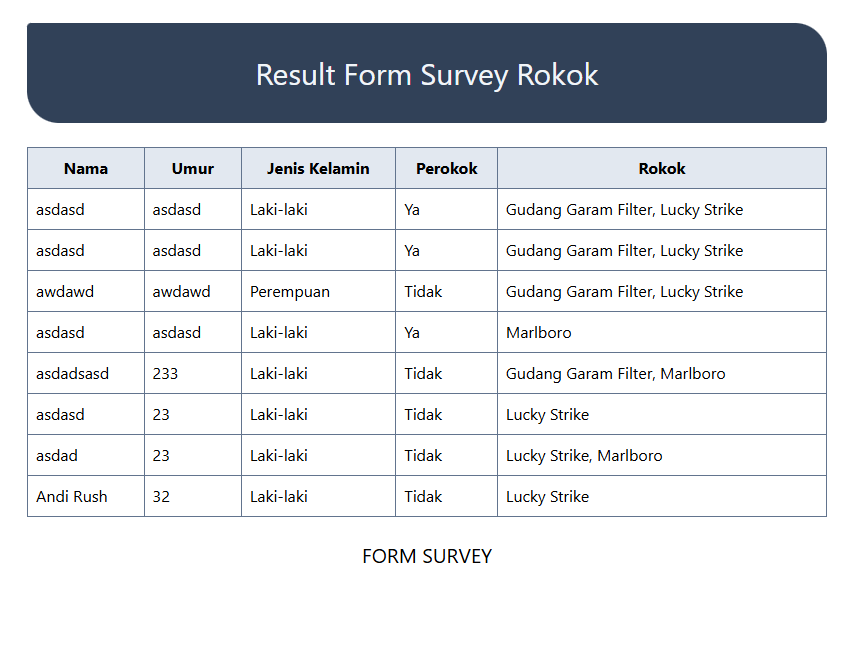
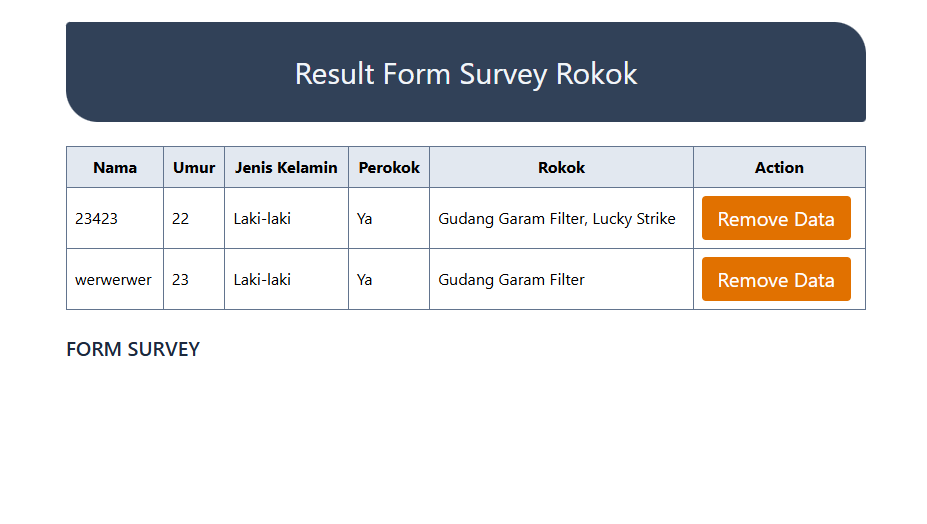
init: minitask react redux

Changed region(s): [[0.0303, 0.0305, 0.9697, 0.7939], [0.4242, 0.8244, 0.5758, 0.8855]]

diff --git a/src/assets/pages/ResultFormPage.jsx b/src/assets/pages/ResultFormPage.jsx
@@ -1,70 +1,76 @@
-import React , { useState, useEffect } from 'react'
-import { Link } from 'react-router-dom'
+import { useSelector } from "react-redux";
+import { Link } from "react-router-dom";
+import { useDispatch } from "react-redux";
+import { removeSurvey } from "../../redux/reducers/survey";
 
 function ResultFormPage() {
-  const [data, setData] = useState([]);
-  
-    // useEffect(() => {
-    //   const data = localStorage.getItem('dataSurvey')
-    //   setData(JSON.parse(data));
+  const dispatch = useDispatch();
+  const survey = useSelector((state) => state.survey.data);
 
-    // }, []);
-  
-  useEffect(() => {
-    const loadSurveyData = () => {
-      try {
-        const savedData = localStorage.getItem('dataSurvey');
-        if (savedData) {
-          return JSON.parse(savedData);
-        }
-        return null;
-      } catch (error) {
-        console.error("Error loading survey data:", error);
-        return null;
-      }
-    };
+  const handleRemove = (id) => {
+    dispatch(removeSurvey(id));
+    // console.log(id);
+    // console.log(survey);
+  };
 
-    const surveyData = loadSurveyData();
-    if (surveyData) {
-      setData(surveyData);
-    } else {
-      console.warn("No survey data found in localStorage");
-      // Redirect ke form jika data tidak ada
-      // window.location.href = '/survey-form';
-    }
-  }, []);
-return (
-    <div className='w-screen h-screen p-0 m-0 box-border overflow-hidden'>
-      <div className='flex flex-col w-full h-full justify-start items-center mx-auto p-8 gap-6 bg-slate-00'>
-      <div className='bg-slate-700 w-200 text-center p-8 rounded rounded-bl-4xl rounded-tr-4xl text-slate-100  text-3xl gap-2'>Result Form Survey Rokok</div>
-      <table className='w-200 border border-slate-500'>
-      <thead>
-        <tr>
-          <th className='p-2 border border-slate-500 bg-slate-200'>Nama</th>
-          <th className='p-2 border border-slate-500 bg-slate-200'>Umur</th>
-          <th className='p-2 border border-slate-500 bg-slate-200'>Jenis Kelamin</th>
-          <th className='p-2 border border-slate-500 bg-slate-200'>Perokok</th>
-          <th className='p-2 border border-slate-500 bg-slate-200'>Rokok</th>
-        </tr>
-      </thead>
-      <tbody>
-        {data.map((item, index) => 
-        <tr key={index}>
-          <td className='p-2 border border-slate-500'>{item.name}</td>
-          <td className='p-2 border border-slate-500'>{item.age}</td>
-          <td className='p-2 border border-slate-500'>{item.gender}</td>
-          <td className='p-2 border border-slate-500'>{item.smoker}</td>
-          <td className='p-2 border border-slate-500'>{Array.isArray(item.cigarette) && item.cigarette?.join(", ")}</td>
-        </tr>
-        )}
-      </tbody>
-    </table>
-      <Link to="/" className="text-slate-800font-medium text-xl uppercase">
-        Form Survey
-      </Link>
+  return (
+    <div className="w-screen h-screen p-0 m-0 box-border overflow-hidden">
+      <div className="flex flex-col w-full h-full justify-start items-center mx-auto p-8 gap-6 bg-slate-00">
+        <div className="bg-slate-700 w-200 text-center p-8 rounded rounded-bl-4xl rounded-tr-4xl text-slate-100  text-3xl gap-2">
+          Result Form Survey Rokok
+        </div>
+        <table className="w-200 border border-slate-500">
+          <thead>
+            <tr>
+              <th className="p-2 border border-slate-500 bg-slate-200">Nama</th>
+              <th className="p-2 border border-slate-500 bg-slate-200">Umur</th>
+              <th className="p-2 border border-slate-500 bg-slate-200">
+                Jenis Kelamin
+              </th>
+              <th className="p-2 border border-slate-500 bg-slate-200">
+                Perokok
+              </th>
+              <th className="p-2 border border-slate-500 bg-slate-200">
+                Rokok
+              </th>
+              <th className="p-2 border border-slate-500 bg-slate-200">
+                Action
+              </th>
+            </tr>
+          </thead>
+          <tbody>
+            {survey.map((item) => (
+              <tr key={item.id}>
+                <td className="p-2 border border-slate-500">{item.name}</td>
+                <td className="p-2 border border-slate-500">{item.age}</td>
+                <td className="p-2 border border-slate-500">{item.gender}</td>
+                <td className="p-2 border border-slate-500">{item.smoker}</td>
+                <td className="p-2 border border-slate-500">
+                  {Array.isArray(item.cigars) && item.cigars?.join(", ")}
+                </td>
+                <td className="p-2 border border-slate-500">
+                  <button
+                    type="button"
+                    onClick={() => {
+                      handleRemove(item.id);
+                    }}
+                    className="bg-amber-600 py-2 px-4 rounded text-xl text-white "
+                  >
+                    Remove Data
+                  </button>
+                </td>
+              </tr>
+            ))}
+          </tbody>
+        </table>
+        <div className="flex justify-between w-200 items-center">
+          <Link to="/" className="text-slate-800 font-medium text-xl uppercase">
+            Form Survey
+          </Link>
+        </div>
       </div>
-      </div>
-  )
+    </div>
+  );
 }
 
-export default ResultFormPage
+export default ResultFormPage;

diff --git a/src/assets/pages/FormSurveyPage.jsx b/src/assets/pages/FormSurveyPage.jsx
@@ -1,4 +1,3 @@
-import React, { useEffect } from "react";
 import { Link } from "react-router-dom";
 import Input from "./../components/Input";
 import Option from "../components/Option";
@@ -6,6 +5,8 @@ import { useForm } from "react-hook-form";
 import { yupResolver } from "@hookform/resolvers/yup";
 import * as yup from "yup";
 import Card from "../components/Card";
+import { useDispatch } from "react-redux";
+import { addSurvey } from "../../redux/reducers/survey";
 
 const validation = yup.object({
   name: yup
@@ -25,10 +26,12 @@ const validation = yup.object({
     .mixed()
     .oneOf(["Ya", "Tidak"])
     .required("Harus dipilih salah satunya!"),
-  cigarette: yup.array().notRequired(),
+  cigars: yup.array().notRequired(),
 });
 
 function FormSurveyPage() {
+  const dispatch = useDispatch();
+
   const {
     register,
     handleSubmit,
@@ -37,33 +40,25 @@ function FormSurveyPage() {
   } = useForm({
     resolver: yupResolver(validation),
   });
-  const [data, setData] = React.useState([]);
+  // const [data, setData] = React.useState([]);
 
-  useEffect(() => {
-    const savedData = localStorage.getItem("dataSurvey");
-    if (savedData) {
-      setData(JSON.parse(savedData));
-    }
-  }, []);
+  // useEffect(() => {
+  //   const savedData = localStorage.getItem("dataSurvey");
+  //   if (savedData) {
+  //     setData(JSON.parse(savedData));
+  //   }
+  // }, []);
 
-  const onSubmit = (formData) => {
-    let sanitization = -1;
-    if (formData.age < 0) {
-      sanitization *= formData.age;
-    } else {
-      sanitization = formData.age;
-    }
-    formData.age = sanitization;
-    const newData = [...data, formData];
-    setData(newData);
-    localStorage.setItem("dataSurvey", JSON.stringify(newData));
+  function saveData(value) {
+    dispatch(addSurvey(value));
+    console.log(value);
     reset();
-  };
+  }
 
   return (
     <div className="w-screen h-screen p-0 m-0 box-border overflow-x-hidden">
       <div className="flex flex-col w-full justify-start items-center mx-auto p-8 gap-6 bg-slate-400">
-        <form className="flex flex-col gap-4" onSubmit={handleSubmit(onSubmit)}>
+        <form className="flex flex-col gap-4" onSubmit={handleSubmit(saveData)}>
           <div className="relative bg-slate-700 w-200 text-center z-10 p-8 rounded rounded-bl-4xl rounded-tr-4xl text-amber-50  text-3xl gap-2  overflow-hidden">
             <div className="absolute bg-slate-900 w-198 h-3 top-0 left-0 z-[-1] rounded rounded-tr-full"></div>
             Form Survey Rokok
@@ -131,12 +126,12 @@ function FormSurveyPage() {
           </Card>
           <Card>
             <Option
-              {...register("cigarette")}
+              {...register("cigars")}
               className="gap-2 text-7xl"
               type="checkbox"
               label="Jika Anda perokok, rokok apa yang pernah Anda coba?"
-              name="cigarette"
-              id="cigarette"
+              name="cigars"
+              id="cigars"
               value={[
                 "Gudang Garam Filter",
                 "Lucky Strike",

diff --git a/src/App.jsx b/src/App.jsx
@@ -1,23 +1,27 @@
-
-import { createBrowserRouter, RouterProvider } from 'react-router-dom'
-import './App.css'
-import FormSurveyPage from './assets/pages/FormSurveyPage'
-import ResultFormPage from './assets/pages/ResultFormPage'
+import { createBrowserRouter, RouterProvider } from "react-router-dom";
+import "./App.css";
+import FormSurveyPage from "./assets/pages/FormSurveyPage";
+import ResultFormPage from "./assets/pages/ResultFormPage";
+import { Provider } from "react-redux";
+import { store } from "./redux/store";
 
 const router = createBrowserRouter([
   {
     path: "/",
-    element: <FormSurveyPage />
+    element: <FormSurveyPage />,
   },
   {
     path: "/result",
-    element: <ResultFormPage />
-  }
-])
-
+    element: <ResultFormPage />,
+  },
+]);
 
 function App() {
-  return <RouterProvider router={router} />
+  return (
+    <Provider store={store}>
+      <RouterProvider router={router} />
+    </Provider>
+  );
 }
 
-export default App
+export default App;

diff --git a/src/redux/reducers/survey.js b/src/redux/reducers/survey.js
@@ -1,0 +1,27 @@
+import { createSlice } from "@reduxjs/toolkit";
+
+const initialState = {
+  data: [],
+};
+
+const survey = createSlice({
+  name: "survey",
+  initialState,
+  reducers: {
+    addSurvey: function (state, action) {
+      const id = state.data.length;
+      state.data.push({
+        id,
+        ...action.payload,
+      });
+      return state;
+    },
+    removeSurvey: function (state, action) {
+      state.data.splice(action.payload, 1);
+      return state;
+    },
+  },
+});
+
+export const { addSurvey, removeSurvey } = survey.actions;
+export default survey.reducer;

diff --git a/src/redux/reducers/index.js b/src/redux/reducers/index.js
@@ -1,0 +1,8 @@
+import { combineReducers } from "@reduxjs/toolkit";
+import survey from "./survey";
+
+const reducer = combineReducers({
+  survey,
+});
+
+export default reducer;

diff --git a/src/redux/store.js b/src/redux/store.js
@@ -1,0 +1,6 @@
+import { configureStore } from "@reduxjs/toolkit";
+import reducer from "./reducers";
+
+export const store = configureStore({
+  reducer,
+});
